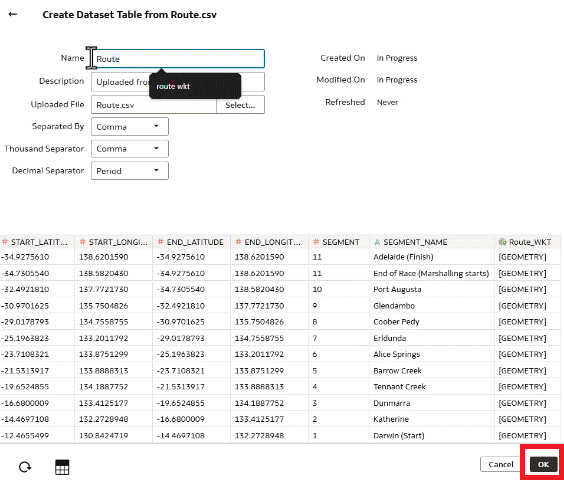
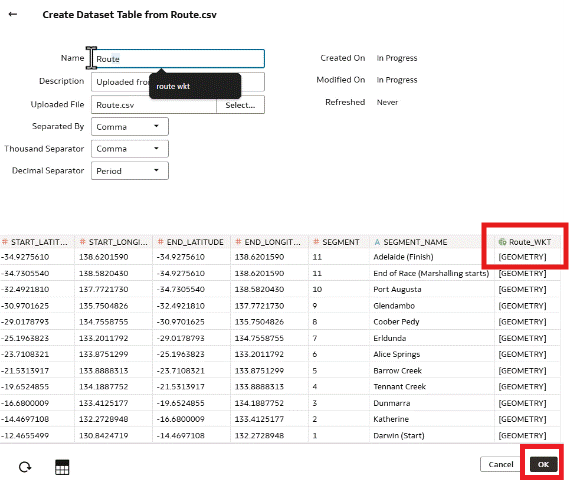
changes v10

diff --git a/solarcar-map/upload-datasets/upload-datasets.md b/solarcar-map/upload-datasets/upload-datasets.md
@@ -1,8 +1,8 @@
-# Upload the excel file in OAC as datasets
+# Upload the csv file in OAC as datasets
 
 ## Introduction
 
-In this lab, you will **upload the excel files** required to create the map provided in the resources section. First, we will upload the live race excel file and save it. Next, we will create another dataset by integrating two excel files (race route and speed) into OAC using an inner join to produce a combined dataset.
+In this lab, you will **upload the csv files** required to create the map provided in the resources section. First, we will upload the live race csv file and save it. Next, we will create another dataset by integrating two csv files (race route and speed) into OAC using an inner join to produce a combined dataset.
 
 _Estimated Time:_ 10 minutes
 
@@ -10,7 +10,7 @@ _Estimated Time:_ 10 minutes
 
 In this lab, you will:
 
-- Upload the excel files in OAC as datasets
+- Upload the csv files in OAC as datasets
 
 ### Prerequisites
 
@@ -19,15 +19,15 @@ This lab assumes you have:
 - An Oracle Free Tier, Always Free, Paid or Live Labs Cloud Account
 - Provisioned Oracle Analytics Cloud
 - All previous labs successfully completed
-- All three excels files provided in the resources have been downloaded
+- All three csv files provided in the resources have been downloaded
 
-## Task 1: Upload the live race excel file
+## Task 1: Upload the live race csv file
 
 1. Go to Create and select Dataset (**Create**)
 
     ![Select the create icon](./images/1%20Create%20Dataset.jpg)
 
-2. A dialog box will open. Select the option Drag data file, then choose the live location excel file from your computer. **Drag data file here or click to browse**
+2. A dialog box will open. Select the option Drag data file, then choose the live location csv file from your computer. **Drag data file here or click to browse**
 
     ![Drag data file](./images/2.%20Drag%20Data%20set%20.jpg)
 
@@ -43,19 +43,20 @@ This lab assumes you have:
 
     ![live location file](./images/5%20Save%20the%20file.jpg)
 
-## Task 2: Upload the route and speed excel files as one joint file
+## Task 2: Upload the route and speed csv files as one joint file
 
 1. Go to Create and select Dataset (**Create**)
 
     ![Select the create icon](./images/1%20Create%20Dataset.jpg)
 
-2. A dialog box will open. Select the option Drag Data File, then choose the route excel file from your computer. **Drag data file here or click to browse**
+2. A dialog box will open. Select the option Drag Data File, then choose the route csv file from your computer. **Drag data file here or click to browse**
 
     ![Drag data file](./images/2.%20Drag%20Data%20set%20.jpg)
 
 3. Once the Route data loads, click **OK**
 
     ![Select "OK"](./images/2%20Upload%20joint%20excel%20file/3%20Select%20the%20route%20data%20set%20and%20name%20it%20route.png)
+Note that the Route_WKT is the geometry data type column, and the column with the value [Geometry] contain the linestring information
 
 4. Open the route data tab and go to **meta data icon**
 
@@ -69,7 +70,7 @@ This lab assumes you have:
 
     ![Add data](./images/2%20Upload%20joint%20excel%20file/6%20Go%20back%20to%20join%20diagram%20tab%20and%20add%20File%20.jpg)
 
-7. Select the excel file speed from your computer. Once the speed file populates, click **OK**
+7. Select the csv file speed from your computer. Once the speed file populates, click **OK**
 
     ![import data](./images/2%20Upload%20joint%20excel%20file/7%20Add%20speed%20file%20and%20click%20ok.png)
 
@@ -85,7 +86,7 @@ This lab assumes you have:
 
     ![save](./images/2%20Upload%20joint%20excel%20file/10%20Save%20the%20file.jpg)
 
-You have now loaded the excel files as **datasets** into OAC.
+You have now loaded the csv files as **datasets** into OAC.
 Next we will build the map and add layers to it.
 
 Congratulations on completing this lab!

diff --git a/solarcar-map/introduction/introduction.md b/solarcar-map/introduction/introduction.md
@@ -21,7 +21,7 @@ _Estimated Time:_ 50 minutes
 
 In this workshop, you will learn how to create a custom interactive map for the solar car race using real-world data. Specifically, you will:
 
-- Download the excel files provided in resources section
+- Download the csv files provided in resources section
 
 - Load data into OAC as Datasets
 
@@ -33,13 +33,13 @@ _At this point, you are ready to start learning! Please proceed._
 
 _Resources:_
 
-This lab includes three Excel files. Please download and save them to a folder of your choice:
+This lab includes three csv files. Please download and save them to a folder of your choice:
 
 - [route](./files/route.csv?download=1)
 - [speed](./files/speed.csv?download=1)
 - [live location](./files/live%20location.csv?download=1)
 
-_Note:_The race route was created using an open-source mapping tool by plotting the control stops and connecting them with line strings to represent the race path. It was first generated on OpenStreetMap, downloaded as GeoJSON, and then converted into Excel for ease of use. The final route data is stored in WKT (Well-Known Text) format, which is a standard for representing geographic shapes such as points, lines, and polygons. For simplicity, we have provided the route in excel, ready to use directly for this live lab.
+_Note:_The route was first generated on OpenStreetMap, exported as GeoJSON, and then converted into a csv file containing Well-Known Text (WKT) geometry. This format provides a standardized way of representing geographic features such as points, lines, and polygons. For simplicity, we have also provided the csv, ready to use directly for this live lab.
 
 ## **Acknowledgements**
 
